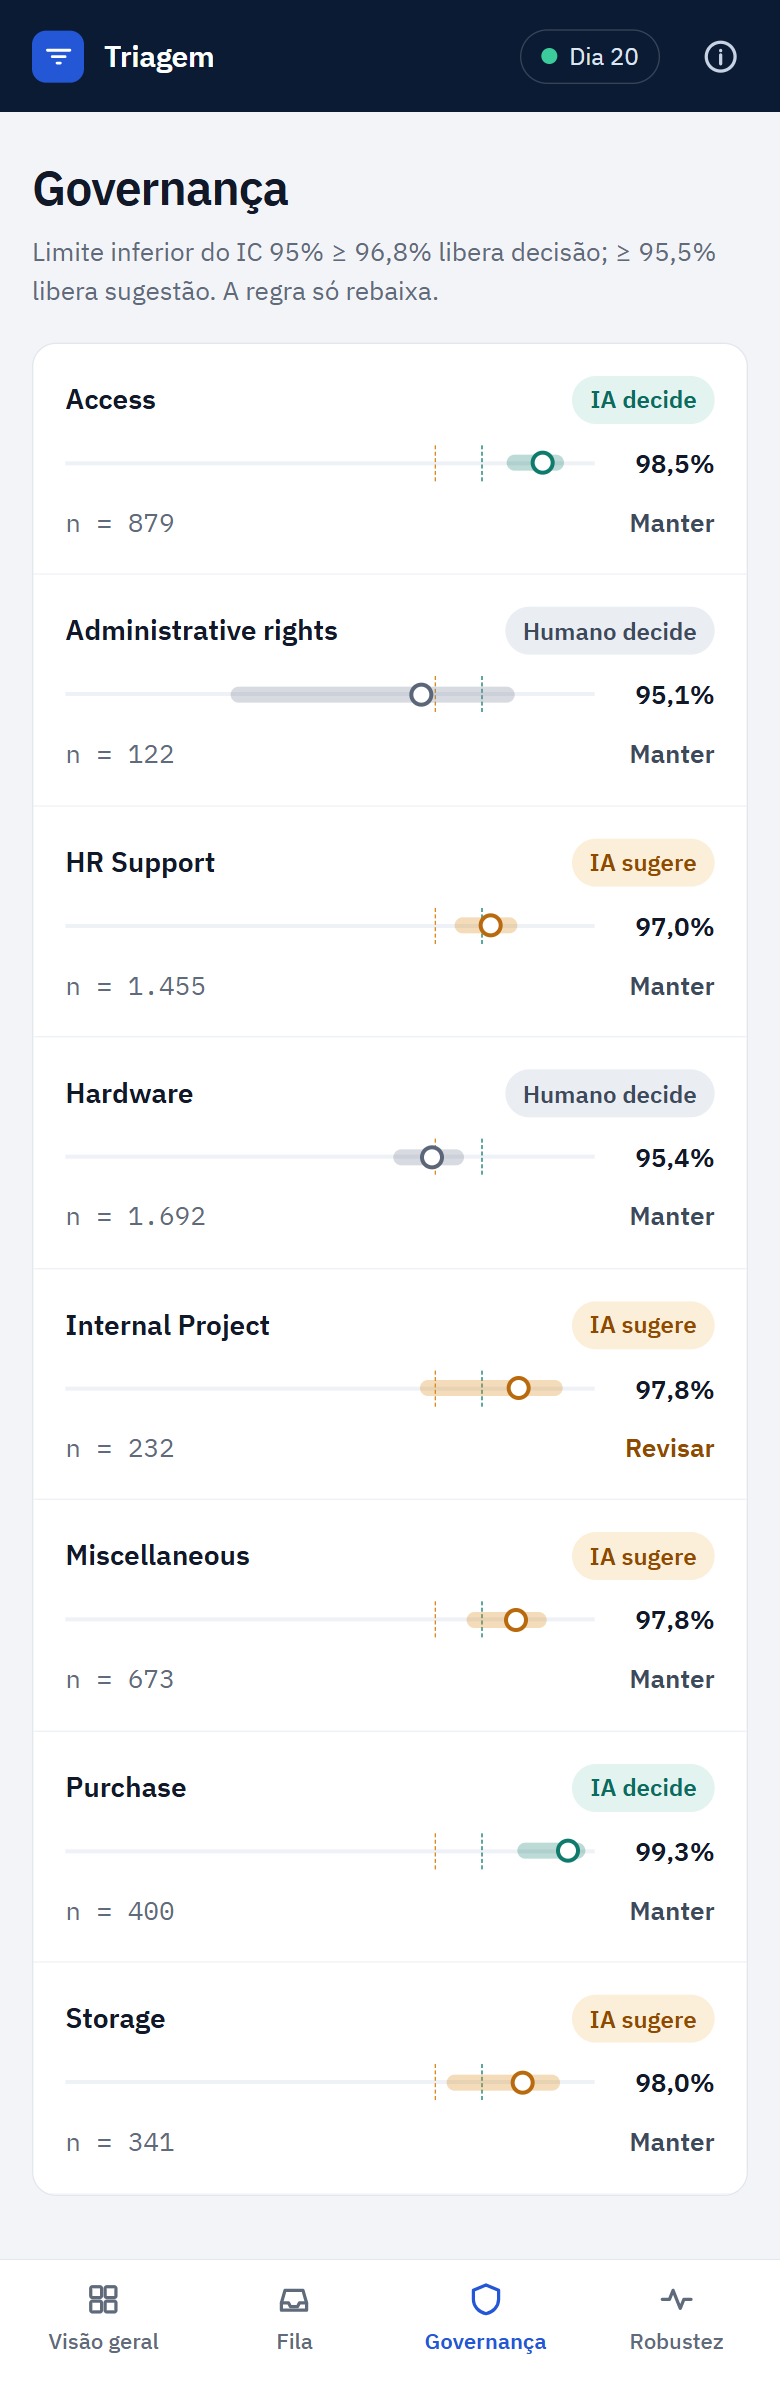
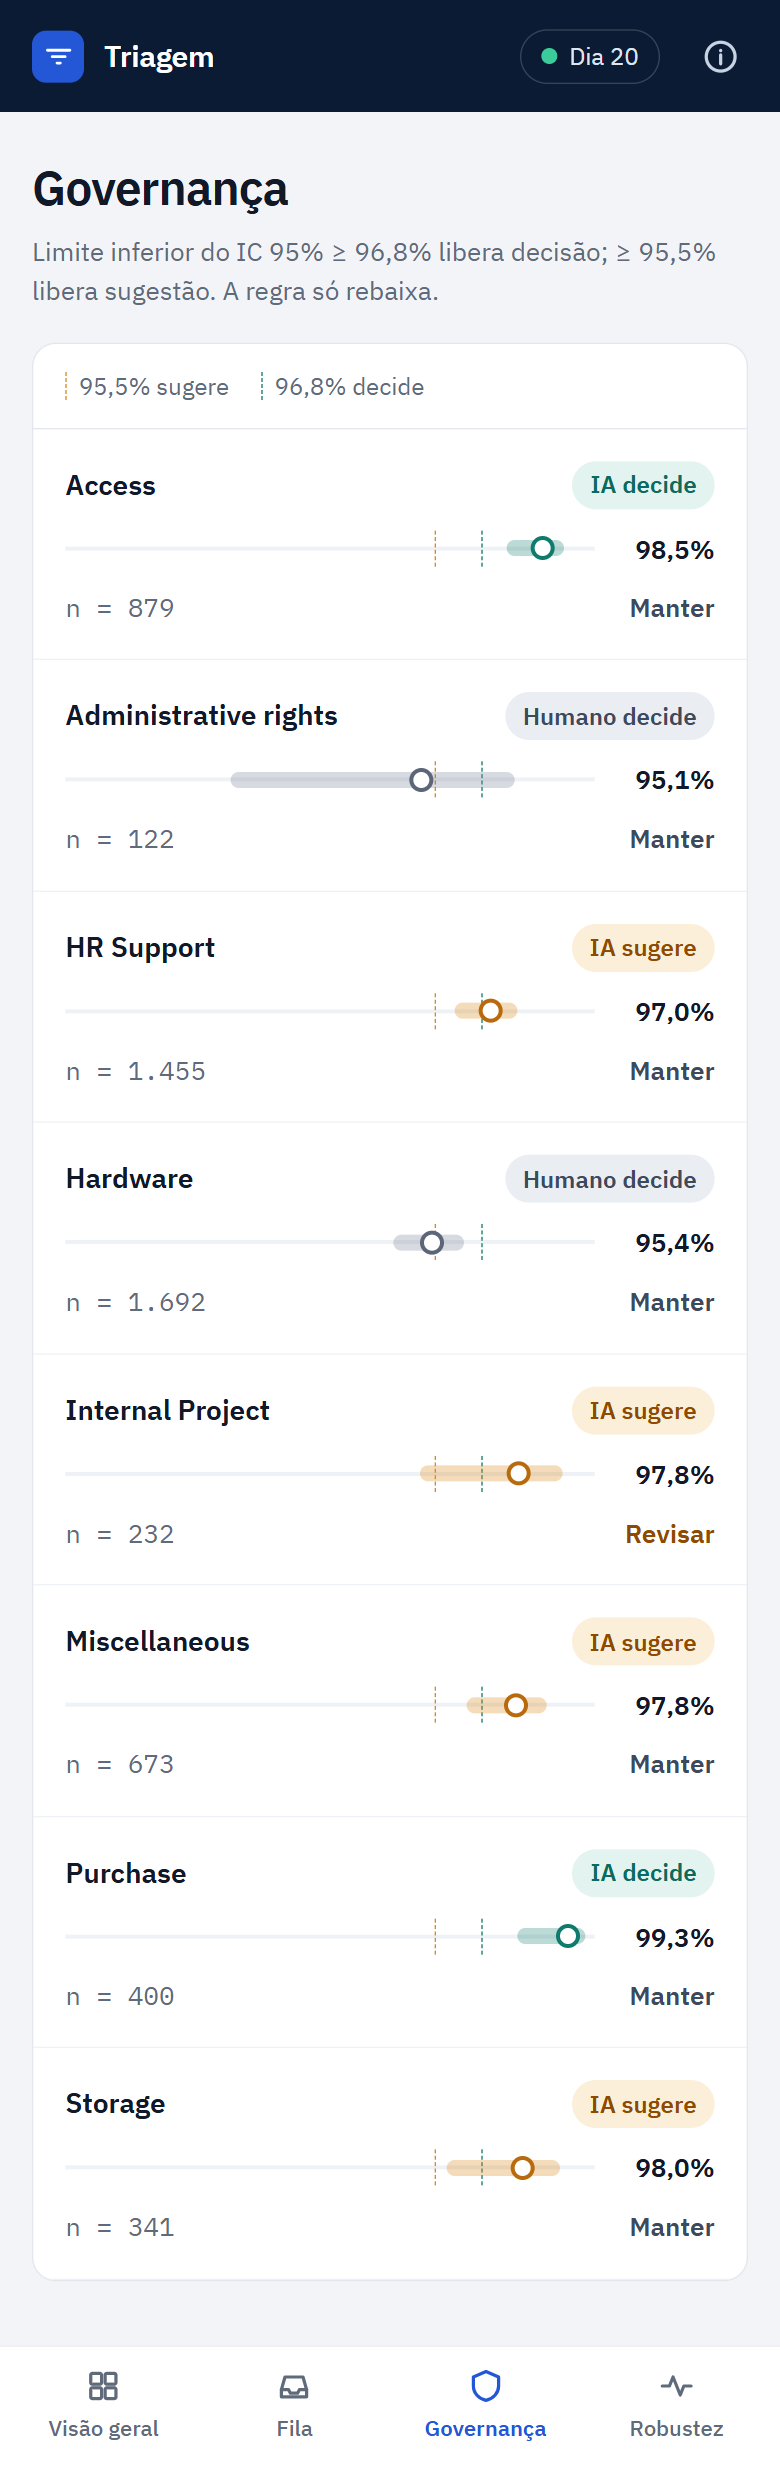
F12b: governança em cartões até 900 px, legenda das metas, decisão sobre Rebaixar/Revisar

diff --git a/submissions/gustavo-covaleski/console/styles.css b/submissions/gustavo-covaleski/console/styles.css
@@ -266,6 +266,24 @@ input[type=range] { width: 100%; accent-color: var(--acao); min-height: 44px; }
   .grupos { grid-template-columns: 1fr; }
 }
 
+/* governança em cartões até 900 px: a coluna Ação nunca exige rolagem horizontal */
+.gov-legenda { display: none; }
+@media (max-width: 900px) {
+  .gov-tabela .rolavel { overflow-x: visible; }
+  .gov-grade { min-width: 0; }
+  .gov-cab { display: none; }
+  .gov-legenda { display: flex; flex-wrap: wrap; gap: 6px 16px; padding: 12px 16px; border-bottom: 1px solid var(--borda); font-size: 12px; color: var(--texto-2); }
+  .gov-legenda span { display: inline-flex; align-items: center; gap: 6px; }
+  .gov-legenda i { display: inline-block; width: 0; height: 14px; }
+  .gov-linha { grid-template-columns: minmax(0, 1fr) auto; grid-template-areas: "nome selo" "ic ic" "n acao"; gap: 10px; padding: 16px; }
+  .gov-nome { grid-area: nome; }
+  .gov-linha .selo { grid-area: selo; justify-self: end; }
+  .ic-celula { grid-area: ic; }
+  .gov-n { grid-area: n; text-align: left; }
+  .gov-n::before { content: "n = "; }
+  .gov-acao { grid-area: acao; justify-self: end; }
+}
+
 /* celular: < 768 */
 @media (max-width: 767px) {
   body { font-size: 15px; }
@@ -299,15 +317,6 @@ input[type=range] { width: 100%; accent-color: var(--acao); min-height: 44px; }
   .det-cab { flex-direction: row-reverse; justify-content: space-between; }
   .acoes-desk, .atalhos { display: none; }
   .fechar { width: 44px; height: 44px; }
-  .gov-grade { min-width: 0; }
-  .gov-cab { display: none; }
-  .gov-linha { grid-template-columns: minmax(0, 1fr) auto; grid-template-areas: "nome selo" "ic ic" "n acao"; gap: 10px; padding: 16px; }
-  .gov-nome { grid-area: nome; }
-  .gov-linha .selo { grid-area: selo; justify-self: end; }
-  .ic-celula { grid-area: ic; }
-  .gov-n { grid-area: n; text-align: left; }
-  .gov-n::before { content: "n = "; }
-  .gov-acao { grid-area: acao; justify-self: end; }
   .painel.tela-cheia { position: fixed; inset: 0; z-index: 30; border-radius: 0; overflow: auto; padding: 16px 16px calc(96px + env(safe-area-inset-bottom)); }
   .menu-cen { display: none; }
   .sel-cen { display: flex; width: 100%; }

diff --git a/submissions/gustavo-covaleski/console/app.js b/submissions/gustavo-covaleski/console/app.js
@@ -358,7 +358,7 @@
     $("#conteudo").innerHTML = `
       <div><h1 class="titulo">Governança</h1><p class="subtitulo">Limite inferior do IC 95% ≥ ${pct(META_D)} libera decisão; ≥ ${pct(META_S)} libera sugestão. A regra só rebaixa.</p></div>
       <div class="gov-layout">
-        <section class="gov-tabela" aria-label="Filas"><div class="rolavel"><div class="gov-grade">
+        <section class="gov-tabela" aria-label="Filas"><div class="gov-legenda" aria-label="Metas"><span><i style="border-left:1px dashed #D98A1E"></i>${pct(META_S)} sugere</span><span><i style="border-left:1px dashed #0F7B6C"></i>${pct(META_D)} decide</span></div><div class="rolavel"><div class="gov-grade">
           <div class="gov-linha gov-cab"><span>Fila</span><span>Política</span>
             <span class="gov-cab-ic"><span>Precisão · IC 95%</span><span><span style="color:var(--sugere-tx)">┆ ${pct(META_S)}</span>  <span style="color:var(--decide-tx)">┆ ${pct(META_D)}</span></span></span>
             <span style="text-align:right">n</span><span>Ação</span></div>

diff --git a/submissions/gustavo-covaleski/process-log/process-log.md b/submissions/gustavo-covaleski/process-log/process-log.md
@@ -24,7 +24,7 @@
 | 12 | F9 — Confirmação por categoria no holdout | Executar `planning/F9-spec.md`: política implantada = mais restritiva entre a seleção fora da dobra e a confirmação por categoria no holdout (decisão conservadora pós-hoc; só rebaixa) | Confirmação: Access e Purchase seguem em IA decide; HR Support (LI 0,9604) e Storage (LI 0,9582) → IA sugere; Administrative rights (LI 0,8968) → humano. Implantada no holdout: IA decide 33,42% (seleção OOF) → **13,37%** (precisão 98,75%, IC 97,98–99,23); IA sugere 32,12%; humano 54,51%. Economia base R$ 17.543,90 → R$ 7.018,66/ano. Injeção: 80/15.985 (OOF; todas para Storage, pelo ataque de nome repetido) → **0/6.395** (LS 0,06%); 860 pares (13,45%) saem para humano. Memo com 399 palavras; screenshots 6 e 7 refeitos | Aprovada: política implantada exige confirmação por categoria no holdout (só rebaixa); IA decide 13,37% com 98,75%; dano silencioso da injeção volta a 0. | `planning/F9-report.md`; `solution/f9_confirmacao.py`; `solution/outputs/f8_*`; `f5_injecao.json` | ver report |
 | 13 | F10 — Console do piloto | Executar `planning/F10-spec.md`: console estático (HTML/CSS/JS, sem framework nem backend) com fila do atendente, detalhe com o porquê da faixa, governança por categoria contra a meta, modo sombra, seletor de política, injeção e duplicado; deploy preparado para a Vercel | `solution/f10_console_dados.py` gera `console/data.js` com 300 tickets do holdout em 20 dias, 300 × 5 ataques reais, governança diária acumulada no holdout inteiro e as políticas F9/F8/F4. Checagem do dia 20 passou: limite inferior de Access 0,9749 e Purchase 0,9782 igual ao holdout; cobertura F9 13,37%. A governança sombra mostra Internal Project com limite inferior 0,9506, abaixo da meta de IA sugere (a regra rebaixaria); o console exibe como alerta. Ticket 10244: o ataque de nome repetido vira Storage em IA decide com F8 (dano silencioso) e IA sugere com F9. Sem erro de JS por file:// e http, sem rolagem horizontal a 1440 e 390 px. Sessão interrompida por limite de uso no meio do passo 3 e retomada | Aprovada. Internal Project mantida em IA sugere: a regra registrada na F9 a mantém; em IA sugere o humano confirma cada ticket; precisão sombra de 97,8% com n = 232; critério: se o LI continuar < 0,9545 ao fim do piloto, vai para humano. Console publicado na Vercel. | `planning/F10-report.md`; `console/`; `process-log/screenshots/c1–c4` | ver report |
 | 14 | F11 — Console refeito do zero | Executar `planning/F11-spec.md`: interface limpa e guiada, com as skills de design obrigatórias antes do código; sem mudar `data.js` nem os números | Sistema de design (`console/DESIGN.md`, skills ui-ux-pro-max e frontend-design): estilo "Accessible & Ethical", navegação navy #0F172A, ação #0369A1, fundo #EEF2F6, cartões brancos; faixas IA decide #0F766E (check), IA sugere #B45309 (olho), humano #9F1239 (pessoa); títulos-pergunta em Source Serif 4 e interface em Fira Sans, auto-hospedadas. A skill sugeriu EB Garamond + Lato (tom jurídico); troquei por Source Serif 4 + Fira Sans. 4 telas, cada uma com uma pergunta: saúde, fila, governança (painel lateral com evolução e dia do piloto), robustez (5 cenários com botão rodar). Tela 1 confere com data.js: 13,37%; 98,75%; 1.279 de 9.567. Sem erro de JS nem rolagem horizontal a 1440, 1024 e 390 px, por file:// e http | | `planning/F11-report.md`; `console/DESIGN.md`; `process-log/screenshots/v1–v6`, `antes_depois.png` | ver report |
-| 15 | F12 — Console reimplementado das pranchas | Executar `planning/F12-spec.md`: console refeito a partir das 7 pranchas do Claude Design, responsivo e com copy técnica, sem mudar `data.js` | Design refeito pelo chat do Projeto no Claude Design, com análise crítica do console publicado: celular cortado dentro do contêiner, copy em forma de pergunta e explicativa, jargão de versão, humano em vermelho. Aprovado pelo Gustavo, com 3 decisões: sem nomes de versão na interface, sem guia, premissas no painel 'Sobre os dados'. Implementação: IBM Plex Sans/Mono auto-hospedadas, barra #0B1B33, ação #2457D6, humano em cinza; rotas por hash; barra inferior e telas lista → ticket no celular. Teste de corte (7 larguras × 2 protocolos × 11 rotas): 0 violações, 0 alvos < 44 px, 0 erros de JS. Visão geral confere com data.js (13,37%; 98,75%; 32,12%; 0 de 6.395) | | `planning/F12-report.md`; `planning/F12-cortes.json`; `process-log/screenshots/d1–d4, t1, m1–m3, antes_depois` | ver report |
+| 15 | F12 — Console reimplementado das pranchas | Executar `planning/F12-spec.md`: console refeito a partir das 7 pranchas do Claude Design, responsivo e com copy técnica, sem mudar `data.js` | Design refeito pelo chat do Projeto no Claude Design, com análise crítica do console publicado: celular cortado dentro do contêiner, copy em forma de pergunta e explicativa, jargão de versão, humano em vermelho. Aprovado pelo Gustavo, com 3 decisões: sem nomes de versão na interface, sem guia, premissas no painel 'Sobre os dados'. Implementação: IBM Plex Sans/Mono auto-hospedadas, barra #0B1B33, ação #2457D6, humano em cinza; rotas por hash; barra inferior e telas lista → ticket no celular. Teste de corte (7 larguras × 2 protocolos × 11 rotas): 0 violações, 0 alvos < 44 px, 0 erros de JS. Visão geral confere com data.js (13,37%; 98,75%; 32,12%; 0 de 6.395). Revisão do chat do Projeto no console publicado: 0 cortes a 1440, 768 e 390 px; 2 ajustes pedidos (F12b): Governança em cartões até 900 px, para a coluna Ação nunca exigir rolagem horizontal, e legenda de uma linha com as duas metas | Aprovada. Regra de ação na Governança: fila em IA decide abaixo da meta → Rebaixar (erro passaria sem humano); fila em IA sugere abaixo da meta → Revisar (humano já confere; decisão do supervisor, como em Internal Project na F10). | `planning/F12-report.md`; `planning/F12-cortes.json`; `process-log/screenshots/d1–d4, t1, m1–m3, antes_depois` | ver report |
 
 **Exceção de texto no chat export (Gustavo, 04/11/2026):** `process-log/chat-exports/claude-code-f1-a-f7.md` entra sem edição, como terceira exceção à regra de texto de ticket no repositório. Contém 2 trechos do DS2 (28 palavras), os mesmos de `docs/politica.md`, medidos com o texto normalizado e as linhas juntadas. O commit da F7 foi abortado uma vez pela checagem automática antes desta decisão.
 
